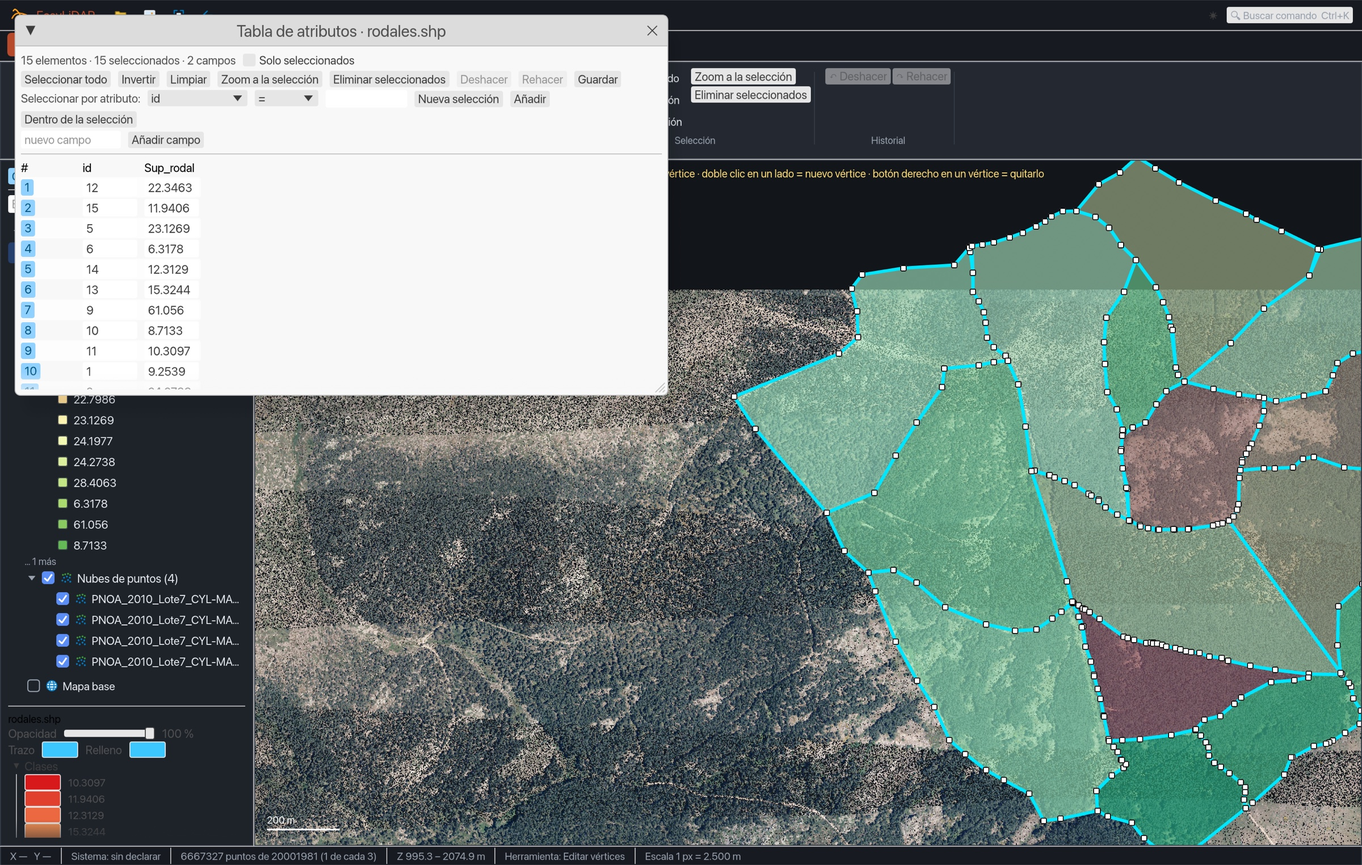
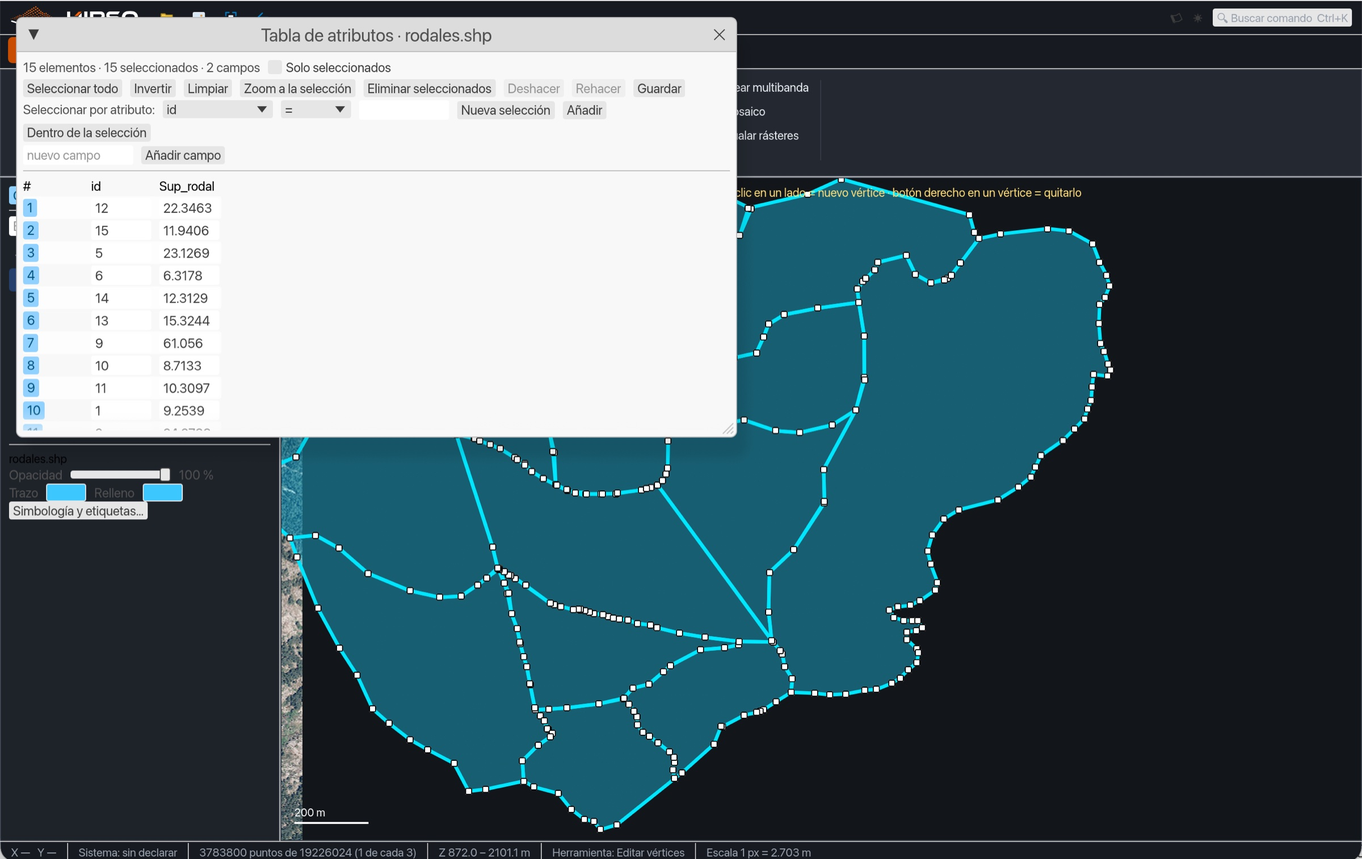
Capturas del README y de assets/social con la marca HIPSO; arranque con --obia, --model, --categorize y --hide-log

diff --git a/apps/gui/src/main.rs b/apps/gui/src/main.rs
@@ -349,6 +349,10 @@ struct App {
     layout: Layout,
     side: Side,
     show_log: bool,
+    /// A field to colour the next vector layer by, once (for screenshots).
+    auto_categorize: Option<String>,
+    /// The log stays closed (for screenshots).
+    hide_log: bool,
     /// A message that stays on screen until the user closes it.
     notice: Option<String>,
     clouds: Vec<PathBuf>,
@@ -470,6 +474,8 @@ impl Default for App {
             nav: Nav::Zoom,
             layout: Layout::Plan,
             side: Side::Layers,
+            auto_categorize: None,
+            hide_log: false,
             show_log: false,
             notice: None,
             clouds: Vec::new(),
@@ -815,6 +821,28 @@ impl App {
                     Some("shortcuts") => Action::Shortcuts,
                     _ => continue,
                 }),
+                "--obia" => {
+                    // the CHM to segment: runs at once
+                    self.ot.open = true;
+                    self.ot.chm = it.next().map(PathBuf::from);
+                    self.ot.autorun = true;
+                    self.ot.classify = 3;
+                    self.ot.k = 5;
+                    self.ot.strata = true;
+                    if let Some(p) = &self.ot.chm {
+                        self.ot.out = p.with_file_name("objetos").display().to_string();
+                    }
+                }
+                "--model" => {
+                    // plots table, field table and variable, separated by commas
+                    let v = it.next().unwrap_or_default();
+                    let v: Vec<&str> = v.split(',').collect();
+                    if let [plots, field, response] = v[..] {
+                        self.mo.preset(plots, field, response);
+                    }
+                }
+                "--hide-log" => self.hide_log = true,
+                "--categorize" => self.auto_categorize = it.next(),
                 "--dark" => {
                     self.dark = true;
                     self.theme_pending = false;
@@ -4053,6 +4081,20 @@ impl eframe::App for App {
             self.set_theme(&ctx, theme != egui::Theme::Light);
         }
         self.poll(&ctx);
+        if self.hide_log {
+            self.show_log = false;
+        }
+        if let Some(field) = self.auto_categorize.clone()
+            && let Some(r) = self.refs.last_mut()
+            && let RefKind::Vector(v) = &mut r.kind
+            && let Some(c) = v.data.fields.iter().position(|f| *f == field)
+        {
+            self.auto_categorize = None;
+            v.sym.kind = symbology::SymKind::Unique;
+            v.sym.field = Some(c);
+            v.sym.classify(&v.data);
+            v.fill_alpha = 0.45;
+        }
         self.process_edit_cmds();
         if self.ed.want_save && self.ed.session.is_some() && self.ed.cmds.is_empty() {
             self.ed.want_save = false;

diff --git a/apps/gui/src/aba_ui.rs b/apps/gui/src/aba_ui.rs
@@ -38,12 +38,26 @@ pub struct ModelTool {
     extrapolate: bool,
     out: String,
     out_manual: bool,
+    /// Fits by itself once the form is complete (for screenshots).
+    autorun: bool,
+}
+
+impl ModelTool {
+    /// Opens the window with the tables and the variable already chosen, and fits at once.
+    pub fn preset(&mut self, plots: &str, field: &str, response: &str) {
+        self.open = true;
+        self.plots = plots.to_string();
+        self.field = field.to_string();
+        self.response = response.to_string();
+        self.autorun = true;
+    }
 }
 
 impl Default for ModelTool {
     fn default() -> Self {
         Self {
             open: false,
+            autorun: false,
             diag: None,
             diag_open: false,
             diag_pending: None,
@@ -261,6 +275,10 @@ impl App {
                     ""
                 };
                 let busy = self.running.is_some();
+                if t.autorun && missing.is_empty() && !busy {
+                    t.autorun = false;
+                    go = true;
+                }
                 ui.horizontal(|ui| {
                     if ui
                         .add_enabled(missing.is_empty() && !busy, egui::Button::new("▶ Ajustar y validar"))

diff --git a/apps/gui/src/obia_ui.rs b/apps/gui/src/obia_ui.rs
@@ -43,12 +43,15 @@ pub struct ObiaTool {
     pub simplify: f64,
     pub out: String,
     pub out_manual: bool,
+    /// Runs by itself once the CHM is chosen (for screenshots).
+    pub autorun: bool,
 }
 
 impl Default for ObiaTool {
     fn default() -> Self {
         Self {
             open: false,
+            autorun: false,
             chm: None,
             extra: Vec::new(),
             cloud: [true, true, false, false],
@@ -327,6 +330,10 @@ impl App {
                         2 => t.samples.is_some() && !t.class_field.trim().is_empty(),
                         _ => true,
                     };
+if t.autorun && ready && self.running.is_none() {
+                    t.autorun = false;
+                    go = true;
+                }
                 if ui.add_enabled(ready && self.running.is_none(), egui::Button::new("▶ Calcular")).clicked() {
                     go = true;
                 }
